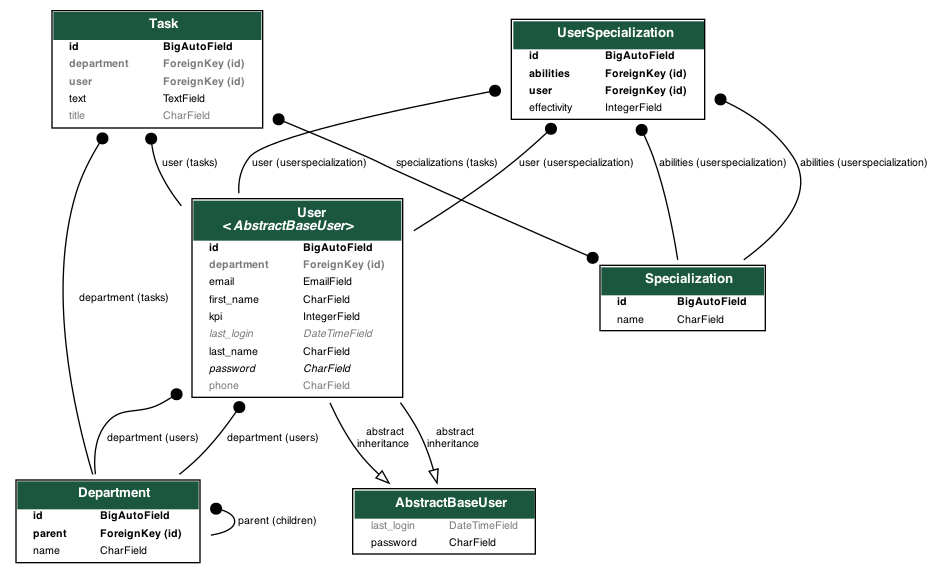
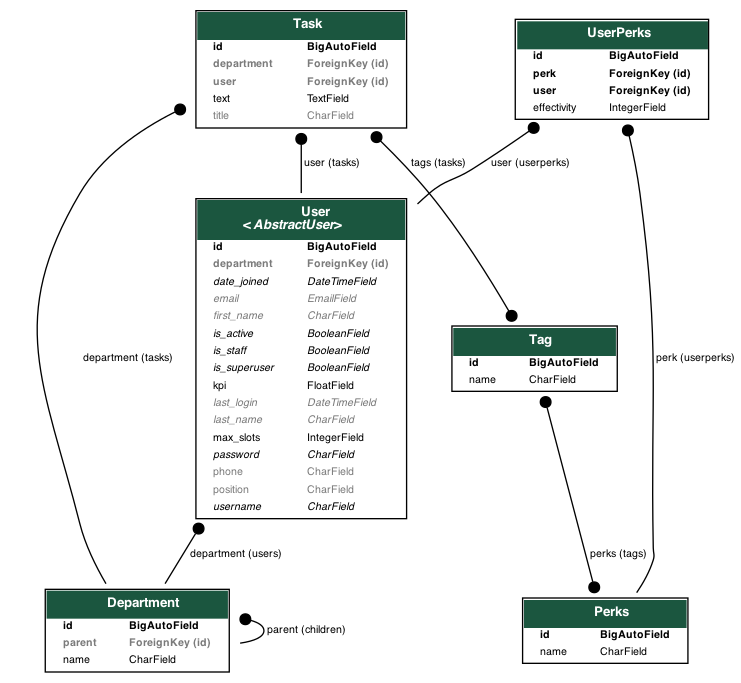
Улучшил генерацию, добавил поля и API

diff --git a/core/management/commands/generate_staff.py b/core/management/commands/generate_staff.py
@@ -12,24 +12,31 @@ from user.models import User
 from department.models import Department
 
 
-class CustomPhoneProvider(Provider):
-    def phone_number(self):
-        while True:
-            phone_number = self.numerify(self.random_element(self.formats))
-            parsed_number = phonenumbers.parse(phone_number, 'US')
-            if phonenumbers.is_valid_number(parsed_number):
-                return phonenumbers.format_number(
-                    parsed_number,
-                    phonenumbers.PhoneNumberFormat.E164
-                )
-
-
-def random_char(char_num):
-    return ''.join(random.choice(string.ascii_letters) for _ in range(char_num))
-
-
 class Command(BaseCommand):
     help = 'Генерирует сортрудников и распределяет их по департаментам'
+
+    POSITIONS = [
+        'Сотрудник',
+        'Стажёр',
+        'Старший сотрудник',
+        'Курьер',
+        'Курьер',
+    ]
+
+    class CustomPhoneProvider(Provider):
+        def phone_number(self):
+            while True:
+                phone_number = self.numerify(self.random_element(self.formats))
+                parsed_number = phonenumbers.parse(phone_number, 'US')
+                if phonenumbers.is_valid_number(parsed_number):
+                    return phonenumbers.format_number(
+                        parsed_number,
+                        phonenumbers.PhoneNumberFormat.NATIONAL
+                    )
+
+    @staticmethod
+    def random_char(char_num):
+        return ''.join(random.choice(string.ascii_letters) for _ in range(char_num))
 
     def add_arguments(self, parser):
         parser.add_argument(
@@ -48,12 +55,17 @@ class Command(BaseCommand):
     def handle(self, *args, **options):
         it = RussianNames(count=options.get('num'), patronymic=False)
         fake = Faker()
-        fake.add_provider(CustomPhoneProvider)
+        fake.add_provider(self.CustomPhoneProvider)
         department_num = Department.objects.count() - 1
         for name in it:
             first_name, last_name = name.split(' ')
-            user = User(first_name=first_name, last_name=last_name, phone=fake.phone_number(),
-                        email=f'{random_char(7)}@mail.ru')
+
+            user = User(
+                first_name=first_name, last_name=last_name,
+                phone=fake.phone_number(), email=f'{self.random_char(7)}@mail.ru',
+                kpi=round(random.random(), 2), position=random.choice(self.POSITIONS)
+            )
+
             if options.get('assign') and department_num:
                 user.department = Department.objects.all().exclude(Q(parent__isnull=True) | Q(parent__parent__isnull=True))\
                     .annotate(num_users=Count('users')).order_by('num_users').first()

diff --git a/user/models.py b/user/models.py
@@ -12,9 +12,18 @@ class User(AbstractUser):
     phone = models.CharField('Телефон', max_length=255, blank=True)
     department = models.ForeignKey('department.Department', on_delete=models.SET_NULL, related_name='users',
                                    null=True, blank=True, verbose_name='Департамент')
-    # max_slots = models.IntegerField('Максмальное кол-во задач', default=6)
+    position = models.CharField('Должность', max_length=255, blank=True)
+    max_slots = models.IntegerField('Максмальное кол-во задач', default=6)
     perks = models.ManyToManyField('core.Perks', verbose_name='Способности', through='UserPerks', related_name='users')
-    kpi = models.IntegerField('Общая эффективность', null=True, blank=True)
+    kpi = models.FloatField('Общая эффективность', default=0.5)
+
+    @property
+    def workload(self):
+        if self.tasks.count():
+            tasks = self.tasks.count()
+        else:
+            return 0
+        return round(tasks / self.max_slots, 2)
 
     def __str__(self):
         return f'{self.last_name} {self.first_name}'

diff --git a/core/management/commands/generate_tasks.py b/core/management/commands/generate_tasks.py
@@ -1,5 +1,5 @@
 from django.core.management.base import BaseCommand
-from django.db.models import Count
+from django.db.models import Count, F
 
 from faker import Faker
 from random import randint
@@ -47,6 +47,10 @@ class Command(BaseCommand):
 
             if options.get('assign') and users_num:
                 # Назначаем задачу любому из 10 самых свободных
-                task.user = User.objects.all()\
-                    .annotate(num_tasks=Count('tasks')).order_by('num_tasks')[randint(0, min(users_num, 10))]
-                task.save(update_fields=['user', 'department'])
+                user = User.objects.all()\
+                    .annotate(num_tasks=Count('tasks'))\
+                    .filter(num_tasks__lte=F('max_slots'))\
+                    .order_by('num_tasks')
+                if user.exists():
+                    task.user = user[randint(0, min(users_num, 10))]
+                    task.save(update_fields=['user', 'department'])

diff --git a/department/models.py b/department/models.py
@@ -6,6 +6,24 @@ class Department(models.Model):
     parent = models.ForeignKey('self', verbose_name='Родительский департамент', on_delete=models.CASCADE,
                                related_name='children', null=True, blank=True, default=None)
 
+    @property
+    def workload(self):
+        workload_sum = 0
+        n = 0
+        for user in self.users.all():
+            n += 1
+            workload_sum += user.workload
+        return round(workload_sum / n, 2)
+
+    @property
+    def kpi(self):
+        kpi_sum = 0
+        n = 0
+        for user in self.users.all():
+            n += 1
+            kpi_sum += user.kpi
+        return round(kpi_sum / n, 2)
+
     def __str__(self):
         return self.name
 

diff --git a/department/views.py b/department/views.py
@@ -1,3 +1,15 @@
-from django.shortcuts import render
+from rest_framework.mixins import ListModelMixin, RetrieveModelMixin
+from rest_framework.generics import ListAPIView, RetrieveAPIView
 
-# Create your views here.
+from .serializers import DepartmentListSerializer, DepartmentDetailSerializer
+from .models import Department
+
+
+class DepartmentListView(ListAPIView):
+    queryset = Department.objects.all()
+    serializer_class = DepartmentListSerializer
+
+
+class DepartmentDetailView(RetrieveAPIView):
+    queryset = Department.objects.all()
+    serializer_class = DepartmentDetailSerializer

diff --git a/department/serializers.py b/department/serializers.py
@@ -1,0 +1,18 @@
+from rest_framework import serializers
+
+from .models import Department
+from user.serializers import UserSerializer
+
+
+class DepartmentListSerializer(serializers.ModelSerializer):
+    class Meta:
+        model = Department
+        fields = ('id', 'name', 'parent', 'workload')
+
+
+class DepartmentDetailSerializer(serializers.ModelSerializer):
+    users = UserSerializer(read_only=True, many=True)
+
+    class Meta:
+        model = Department
+        fields = ('id', 'name', 'workload', 'kpi', 'users')

diff --git a/department/urls.py b/department/urls.py
@@ -2,8 +2,9 @@ from django.contrib import admin
 from django.urls import path
 from rest_framework.routers import DefaultRouter
 
-from .views import DepartmentViewSet
+from .views import DepartmentListView, DepartmentDetailView
 
-router = DefaultRouter()
-router.register(r'', DepartmentViewSet, basename='department')
-urlpatterns = router.urls
+urlpatterns = [
+    path('', DepartmentListView.as_view(), name='departments'),
+    path('<int:pk>', DepartmentDetailView.as_view(), name='department'),
+]

diff --git a/user/serializers.py b/user/serializers.py
@@ -1,0 +1,9 @@
+from rest_framework import serializers
+
+from .models import User
+
+
+class UserSerializer(serializers.ModelSerializer):
+    class Meta:
+        model = User
+        fields = ('id', 'phone', 'email', 'position', 'workload', 'kpi')

diff --git a/application/urls.py b/application/urls.py
@@ -18,5 +18,5 @@ from django.urls import path, include
 
 urlpatterns = [
     path('admin/', admin.site.urls),
-    path('api/department', include('department.urls')),
+    path('api/department/', include('department.urls')),
 ]
